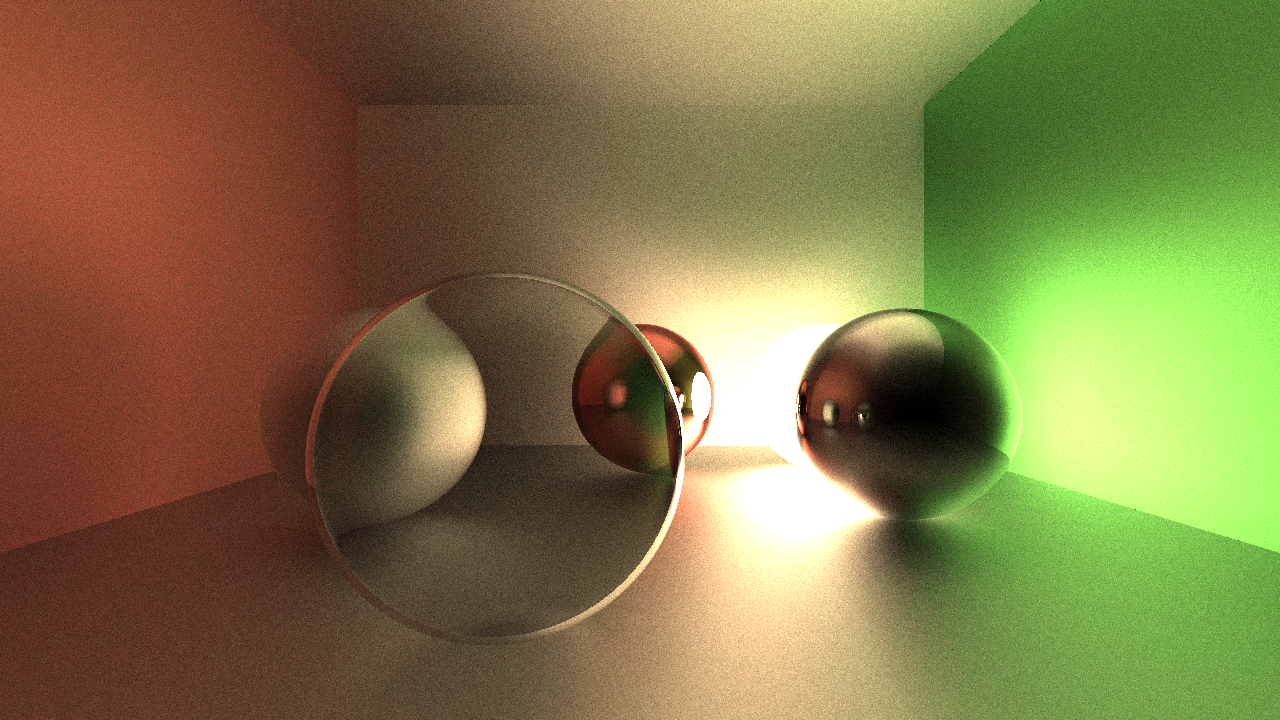
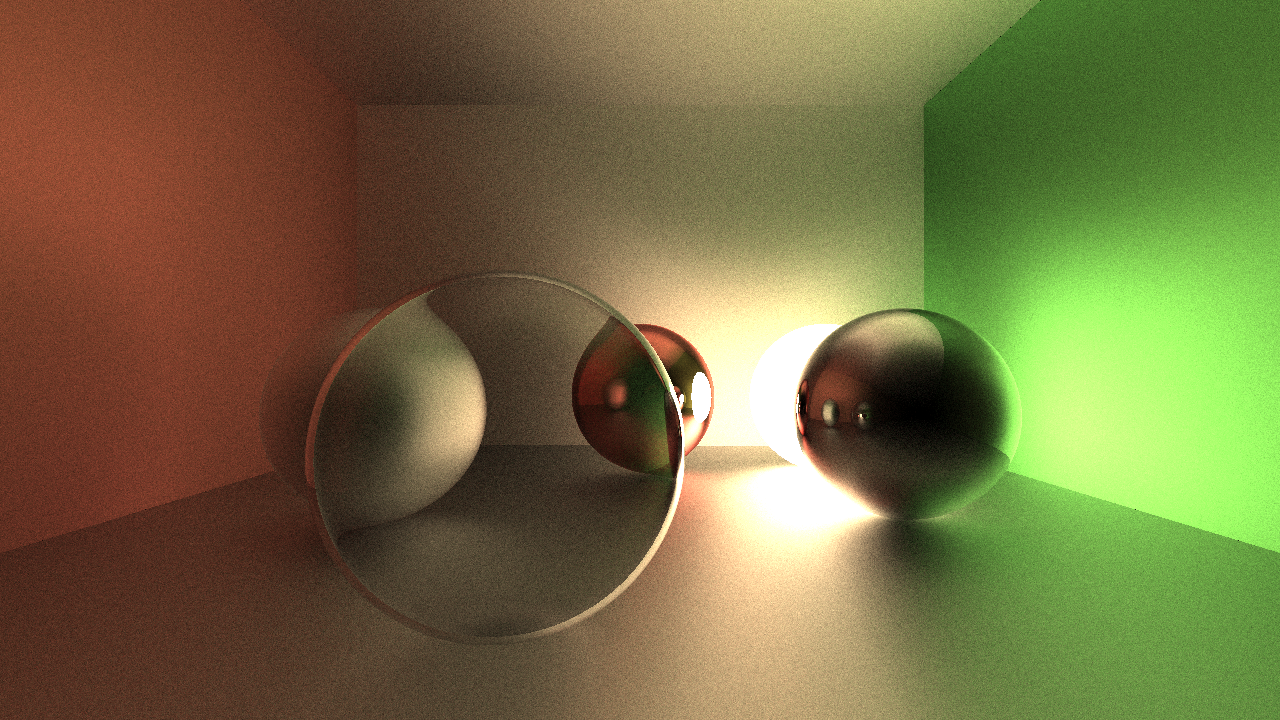
example: updated

Changed region(s): [[0.0, 0.0, 1.0, 1.0], [0.4062, 0.7028, 0.4375, 0.7333]]

diff --git a/README.md b/README.md
@@ -110,7 +110,7 @@ raytrace --obj sph r: 0.2 pos: 0.5 0.5 0 albedo: 1 0.76 0.47 emit: 1.0 \
          --obj pln n: -1 0 0 pos: 1 0 0 albedo: 0 1 0 rough: 1 \
          --obj pln n: 1 0 0 pos: -1 0 0 albedo: 1 0 0 rough: 1 \
          --obj pln n: 0 -1 0 pos: 0 1 0 rough: 1 \
-         --cam pos: 0 -1.2 0.1 fov: 60 gamma: 0.42 exp: 0.58 \
+         --cam pos: 0 -1.2 0.1 fov: 60 gamma: 0.42 exp: 0.54 \
          --bounce 256 --sample 1024
 ```
 
@@ -216,7 +216,7 @@ raytrace --obj sph r: 0.2 pos: 0.5 0.5 0 albedo: 1 0.76 0.47 emit: 1.0 \
     "ssaa": 1,
     "cam": {
         "dir": [0, 1, 0],
-        "exp": 0.58,
+        "exp": 0.54,
         "fov": 70,
         "gamma": 0.42,
         "pos": [0, -1.2, 0.1]
